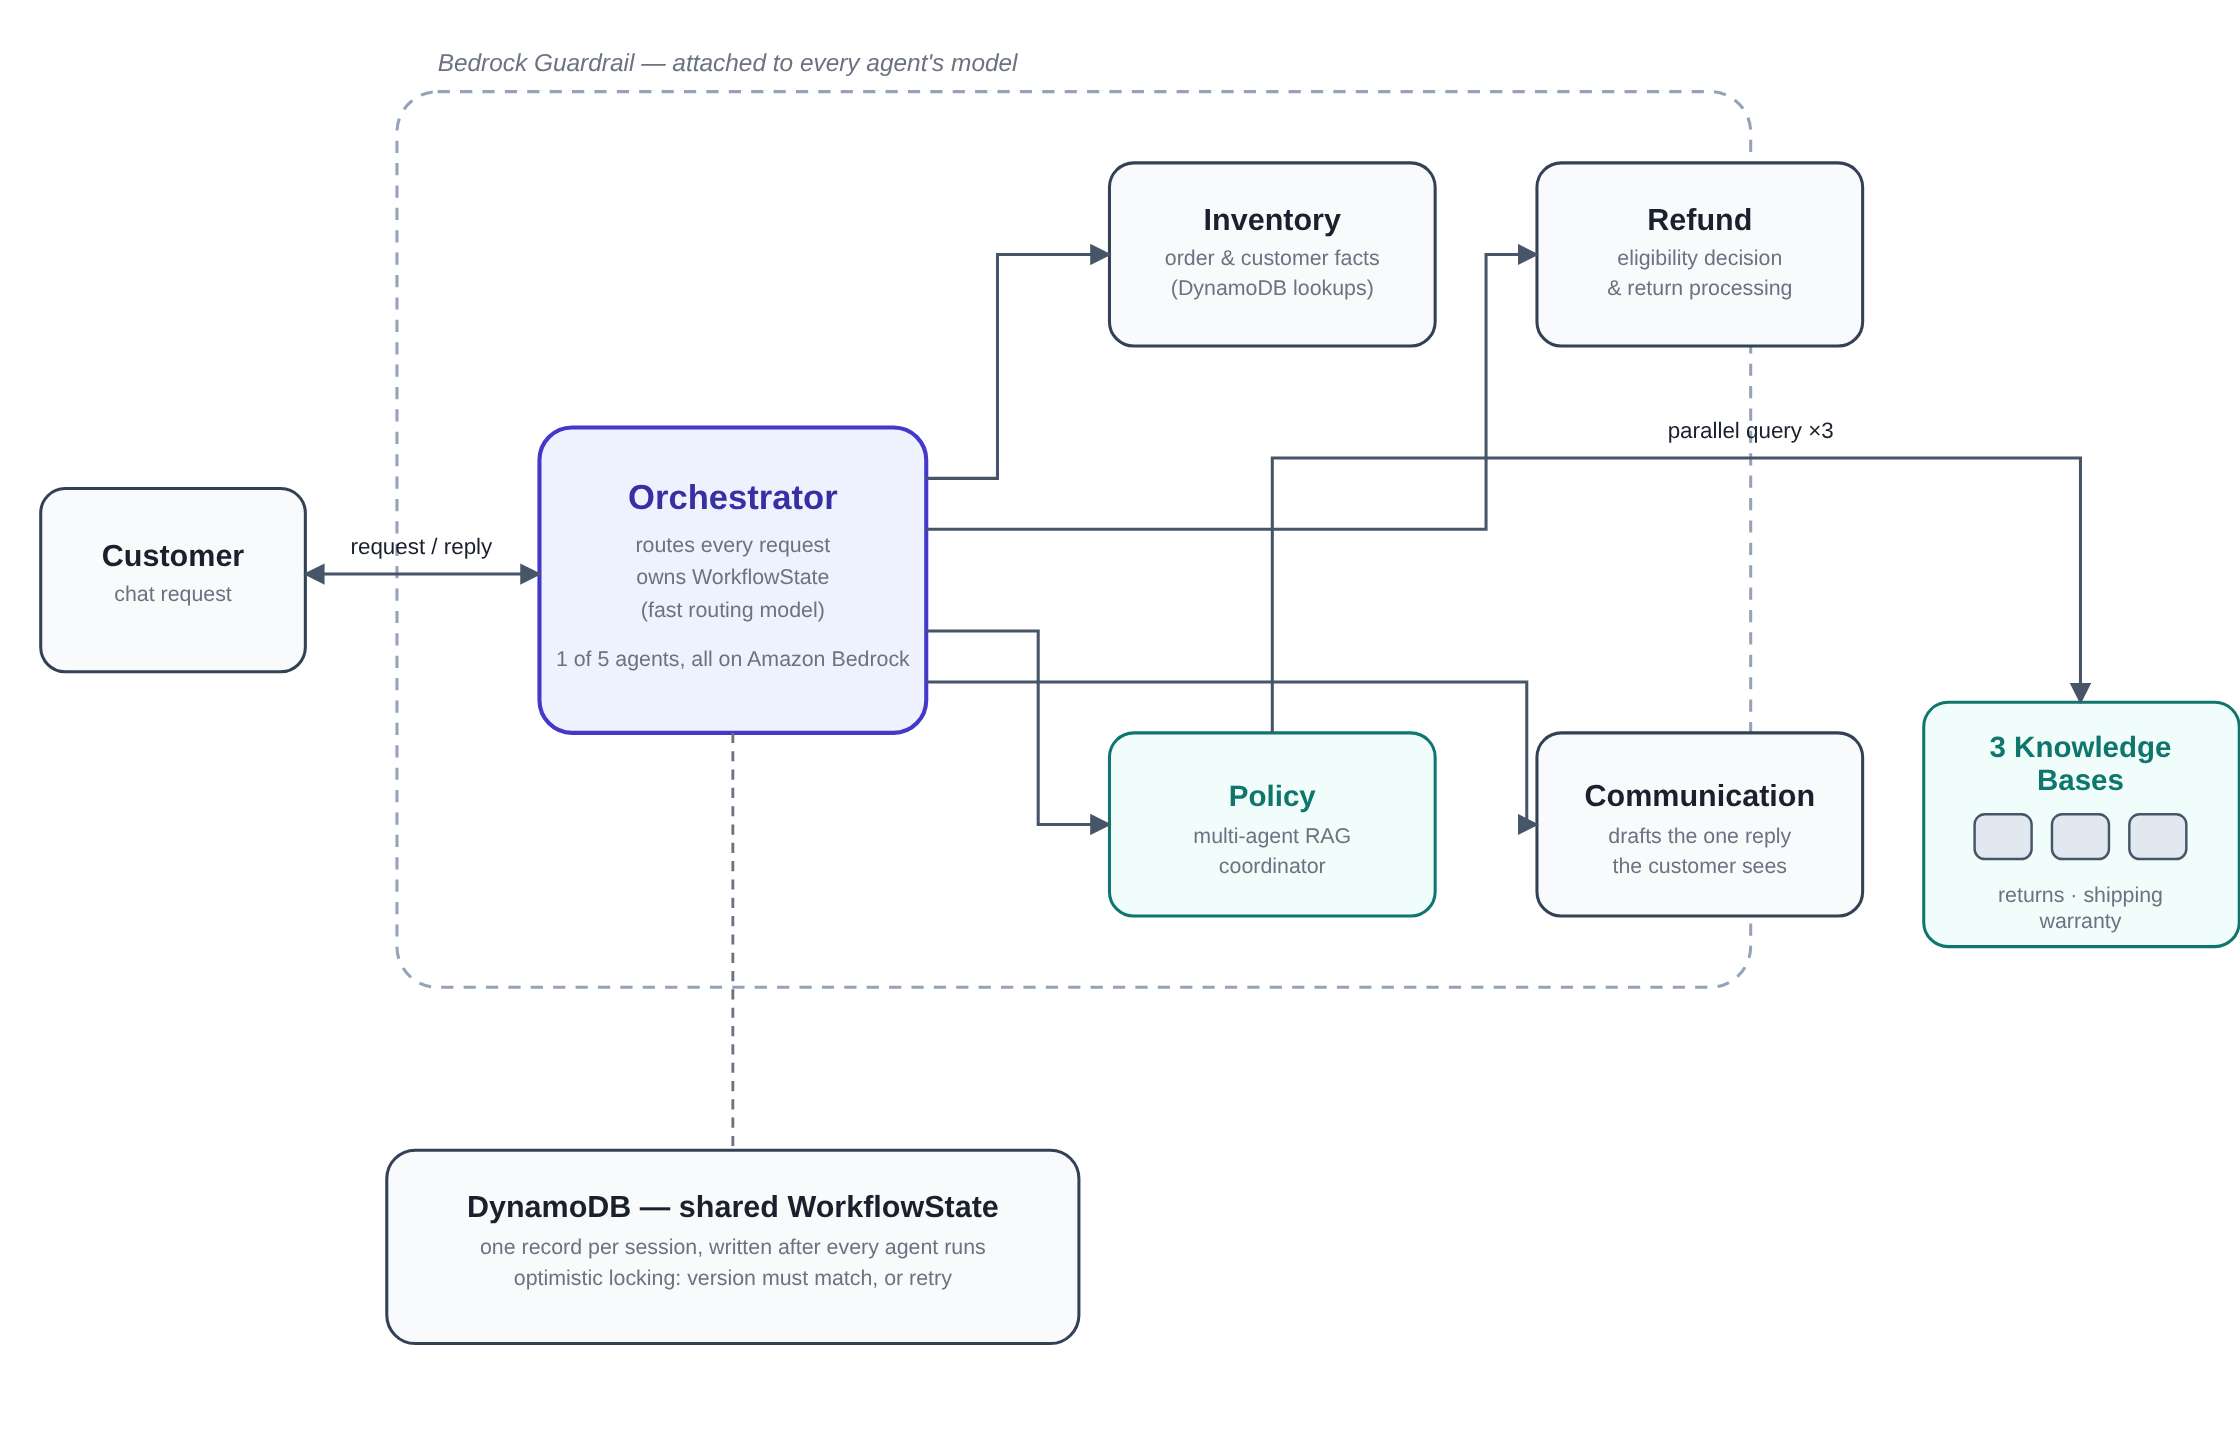
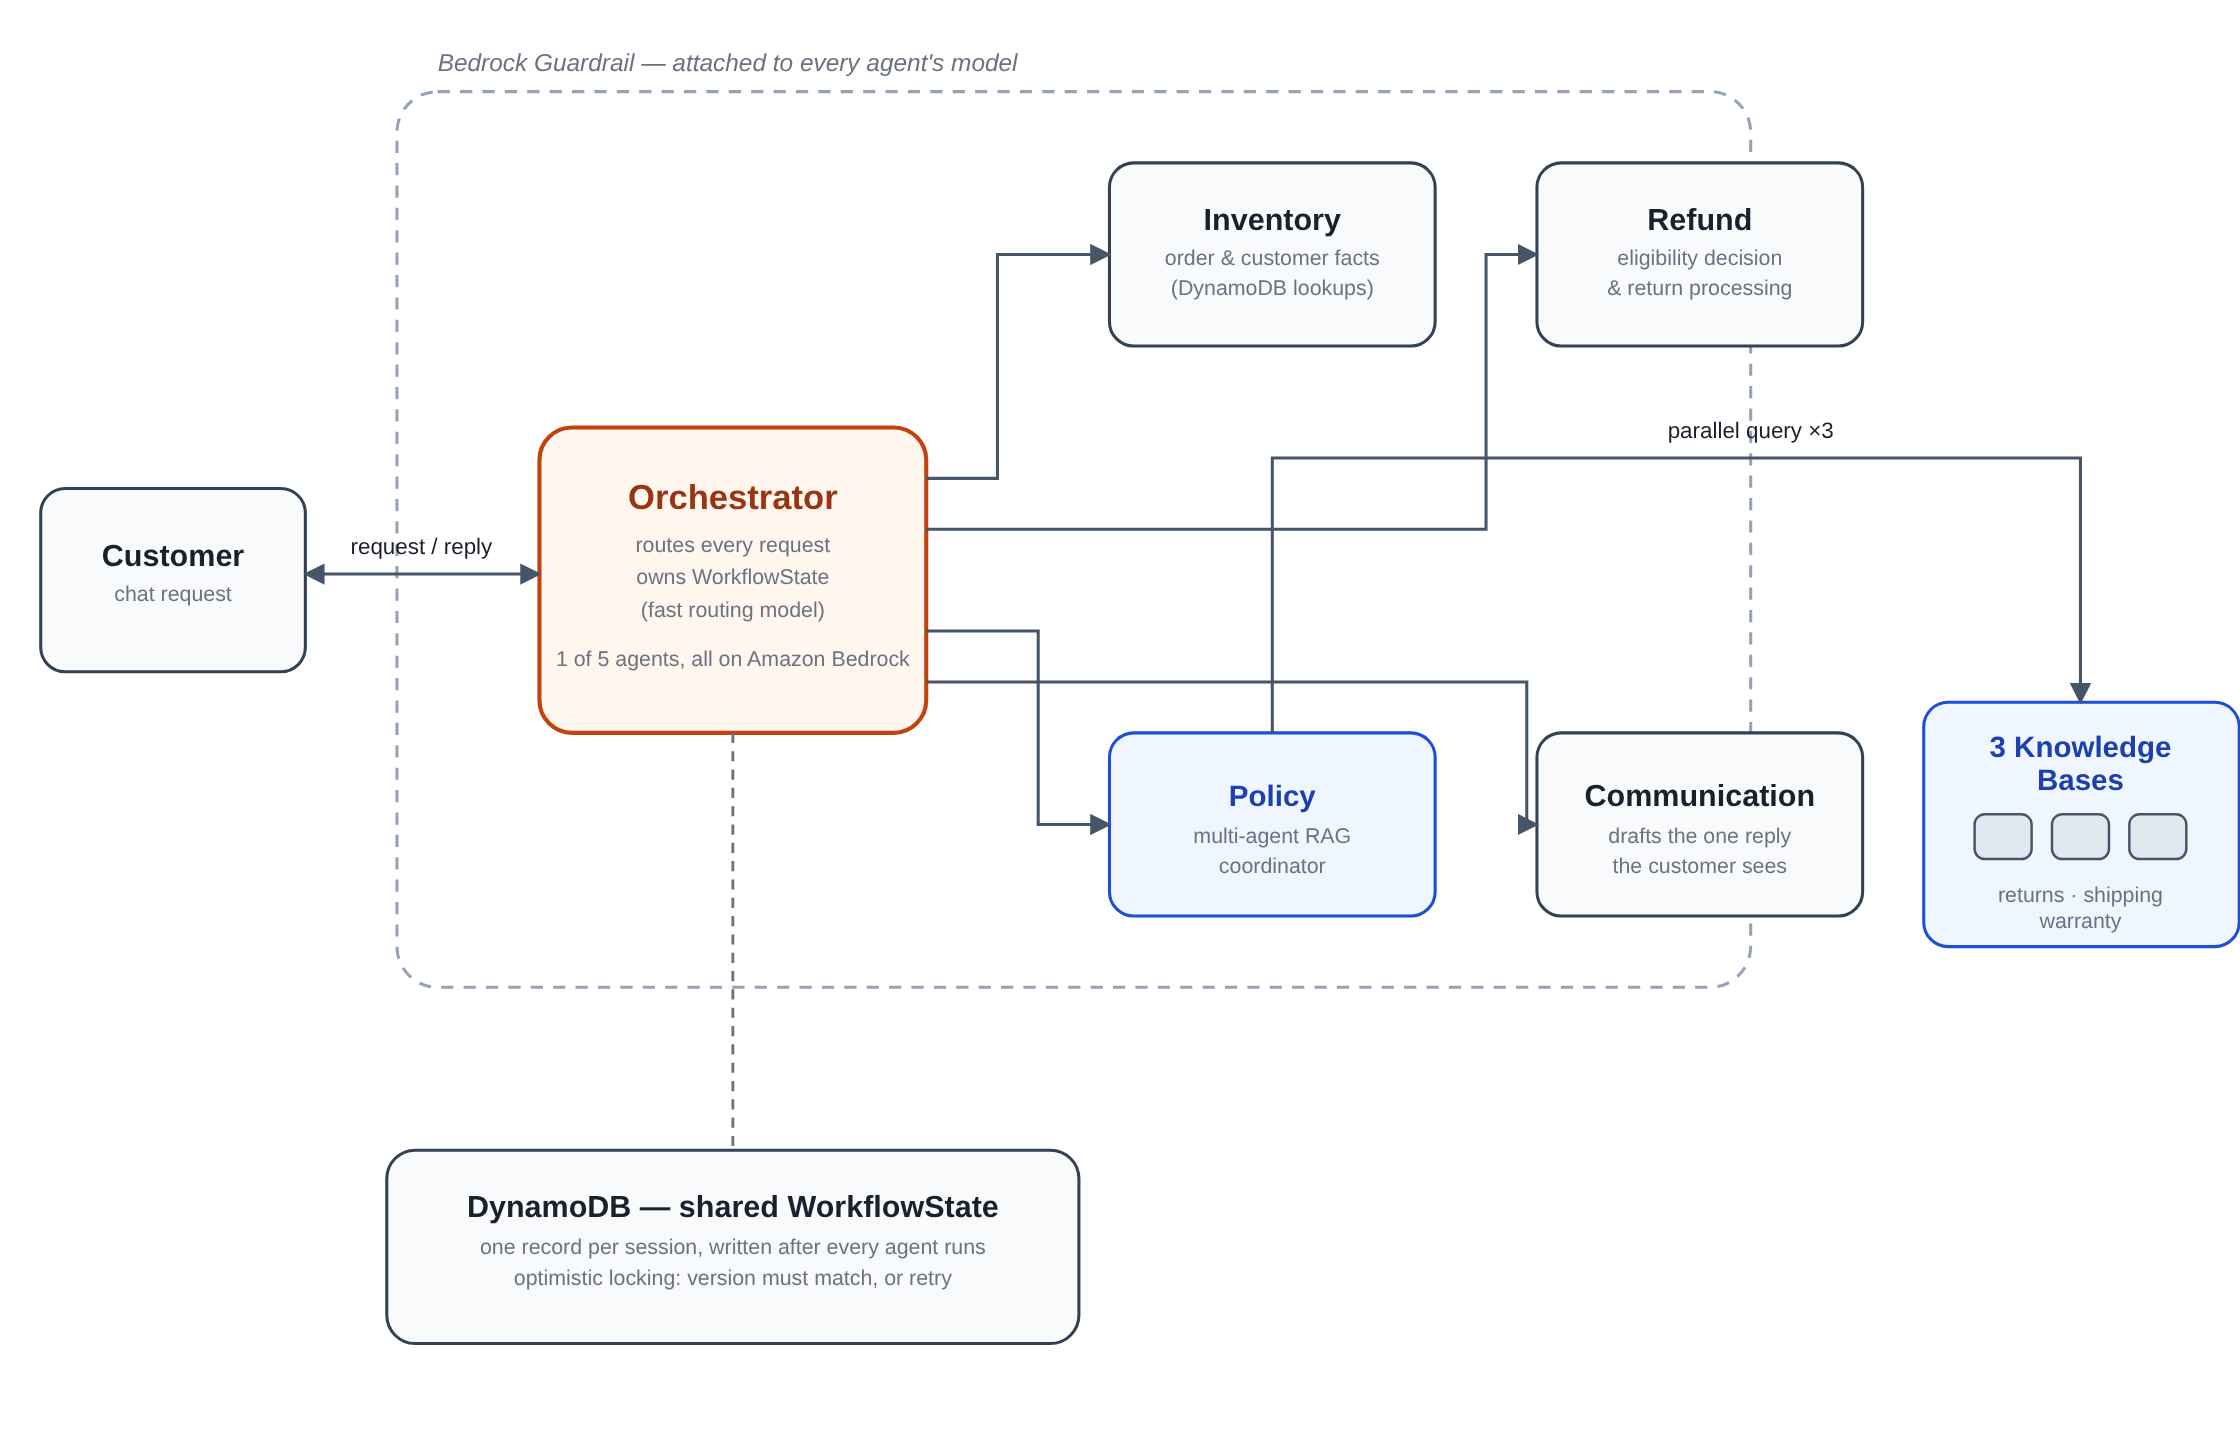
Differentiate this repo's presentation from the other AgentCore repo
README: dropped the shared emoji-badge-table template, reordered
sections, moved the orchestrator-file provenance note up, replaced
the skills table with inline prose, plain footer. Same content, own
voice, so the two AgentCore repos don't read as one template reused
twice.

Overview diagram: recolored off the zero-trust-kubernetes-cluster
repo's exact palette (indigo/teal) onto amber/blue - the two repos
were sharing literal hex values, which is a harder coincidence to
explain than similar prose.

diff --git a/README.md b/README.md
@@ -1,47 +1,44 @@
-<div align="center">
+# NovaMart Multi-Agent Support
 
-# 🛒 NovaMart Multi-Agent Support
-
-**A five-agent, production-shaped e-commerce support system on Amazon Bedrock AgentCore** — an
-Orchestrator routes customer requests to four specialist workers, one of which runs its own
-internal multi-agent RAG fan-out across three Bedrock Knowledge Bases in parallel. Every agent
-shares one optimistic-locked DynamoDB record, runs behind a Bedrock Guardrail, and is traced
-end-to-end on the X-Ray Service Map.
+A five-agent e-commerce support system on Amazon Bedrock AgentCore, built for a fictional
+company called NovaMart. One Orchestrator routes each customer request to four specialist
+workers — Inventory, Refund, Policy, Communication — and the Policy worker is itself a small
+multi-agent system, fanning a single question out to three Bedrock Knowledge Bases in
+parallel. Every agent coordinates through one optimistic-locked DynamoDB record, runs behind
+a shared Bedrock Guardrail, and the whole request graph is traceable end-to-end on the X-Ray
+Service Map.
 
 [![CI](https://github.com/mahmoudnasser1561/agentcore-multi-agent-ecommerce-rag/actions/workflows/ci.yml/badge.svg)](https://github.com/mahmoudnasser1561/agentcore-multi-agent-ecommerce-rag/actions/workflows/ci.yml)
-![Python](https://img.shields.io/badge/python-3.12-3776AB?logo=python&logoColor=white)
-![AWS](https://img.shields.io/badge/AWS-Bedrock%20AgentCore-FF9900?logo=amazonaws&logoColor=white)
-![Score](https://img.shields.io/badge/graded%20score-120%2F120-2ea44f)
-![License](https://img.shields.io/badge/license-MIT-blue)
+![License](https://img.shields.io/badge/license-MIT-lightgrey)
 
-| 🧭 **5 agents** | 📚 **Multi-agent RAG** | 🔒 **Optimistic locking** | 🛡 **Guardrails** | 🧠 **Session memory** | 📊 **Full observability** |
-|:-:|:-:|:-:|:-:|:-:|:-:|
-| Orchestrator → 4 workers | 3 KBs in parallel | versioned WorkflowState | content/PII/topic policy | AgentCore Memory | CloudWatch + X-Ray |
+Python 3.12 · Amazon Bedrock AgentCore · DynamoDB · S3 Vectors · Strands Agents SDK
+Graded **120/120**, first submission.
 
-</div>
-
----
-
-## 🏗 Architecture at a glance
+## The system
 
 ![Architecture](docs/diagrams/architecture.png)
 
-The Orchestrator (Claude Haiku 4.5 — cheap, fast routing) never answers the customer itself. It
-calls exactly one worker (Claude Sonnet 4.5) per step and persists that worker's result to a
-shared DynamoDB row before deciding what happens next. The Policy worker is itself a small
-multi-agent system: three single-purpose retriever sub-agents, one per Knowledge Base, queried
-concurrently through a `ThreadPoolExecutor`.
+The Orchestrator runs a fast, cheap routing model and never answers the customer directly —
+it calls exactly one worker per step (a stronger reasoning model) and persists that worker's
+result to a shared DynamoDB row before deciding what happens next. The Policy worker holds
+three single-purpose retriever sub-agents, one per Knowledge Base, queried concurrently
+through a `ThreadPoolExecutor` rather than in sequence.
 
----
+A simpler, single-glance version of this diagram — built for sharing outside the repo — is at
+`docs/diagrams/overview-agentic-system.svg`.
 
-## 🎬 Proof it's deployed, not just written
+## It actually ran on AWS, not just in an editor
 
-These are screenshots from the actual grading run against real AWS infrastructure — three
-Bedrock Knowledge Bases backed by S3 Vectors, a live AgentCore Runtime, a published Guardrail,
-and CloudWatch/X-Ray wired up. **Score: 120/120.**
+The screenshots below come from the real grading run: three Bedrock Knowledge Bases backed by
+S3 Vectors, a live AgentCore Runtime, a published Guardrail, CloudWatch and X-Ray wired up.
 
 > *"Now that's what I call a fine job! … The version-aware WorkflowState lifecycle is a notable
 > foundation for reliable multi-agent coordination."* — reviewer feedback, first attempt
+
+Checked off against live infrastructure: 5-agent Orchestrator → Workers routing · parallel
+multi-agent RAG across 3 Knowledge Bases · optimistic-locked WorkflowState · the Guardrail
+(content, PII, topics, word list) · AgentCore Memory · CloudWatch logs + the X-Ray Service Map
+below. **120 / 120.**
 
 <table>
 <tr>
@@ -74,20 +71,27 @@ and CloudWatch/X-Ray wired up. **Score: 120/120.**
 </tr>
 </table>
 
-<div align="center">
 <img src="docs/evidence/xray-service-map-detail.png" alt="X-Ray service map, detail view" width="75%" />
-<br/><sub>Orchestrator → 5 agent nodes → 3 knowledge base nodes, one trace per customer request</sub>
-</div>
 
----
+*Orchestrator → 5 agent nodes → 3 knowledge base nodes, one trace per customer request.*
 
-## 🔄 How one request flows
+## Why `src/agent_orchestrator.py` looks unusual for a portfolio repo
+
+It's **exactly** the file that was submitted and graded — not a rewrite, not a cleaned-up
+simplification. The four modules it imports (`config.py`, `agent_utils.py`,
+`agent_observability.py`, `bedrock_kb_retrieval.py`) are original, from-scratch replacements
+for the course-provided versions of the same name, written to match the same public interface
+so the graded file runs unmodified. The course's own scaffolding, starter README and sample
+data are licensed CC BY-NC-ND and are not included anywhere in this repository — only the
+parts that are the student's own authorship, or an original reimplementation.
+
+## Request lifecycle
 
 ![Request flow](docs/diagrams/request-flow.png)
 
-Every routing tool follows the same pattern: read WorkflowState's current `version`, run the
-worker, write the result back under that version. The write is a **conditional** DynamoDB
-update — it only succeeds if `version` still matches what was just read.
+Every routing tool shares one pattern: read WorkflowState's current `version`, run the worker,
+write the result back conditioned on that version. The write only succeeds if `version` still
+matches what was just read.
 
 ```mermaid
 stateDiagram-v2
@@ -101,55 +105,35 @@ stateDiagram-v2
     conflict --> v1 : re-read current version, retry (max 3x)
 ```
 
-A lost race doesn't corrupt state or silently drop a result — it retries against a fresh read,
+A lost race doesn't corrupt state or drop a result silently — it retries against a fresh read,
 up to three times, then raises rather than looping forever.
 
----
-
-## 📚 Multi-agent RAG — three knowledge bases, one round trip
+## Multi-agent RAG: three knowledge bases, one round trip
 
 ![Parallel RAG](docs/diagrams/parallel-rag.png)
 
-The PolicyAgent's `search_all_policies` tool doesn't query three knowledge bases in sequence —
-it fans the question out to three retriever sub-agents concurrently via `ThreadPoolExecutor`,
-so a question touching all three domains (returns, shipping, warranty) costs one round trip's
-wall-clock time, not three. A single retriever failing — a transient KB error — is reported
-inline in its slot; it never aborts the other two.
+`search_all_policies` doesn't query three knowledge bases in sequence — it fans the question
+out to three retriever sub-agents concurrently, so a question touching all three domains
+(returns, shipping, warranty) costs one round trip's wall-clock time, not three. A single
+retriever failing — a transient KB error — is reported inline in its own slot and never
+aborts the other two.
 
----
+## Tuning the guardrail against a real false positive
 
-## 🛡 Guardrails — safety without blocking legitimate math
-
-A Bedrock Guardrail is attached to **every** agent's model via one call
+A Bedrock Guardrail attaches to every agent's model through one call
 (`model.update_config(guardrail_id=..., guardrail_version=...)`), so a single policy change
-takes effect across the whole graph at once. Three STANDARD-tier DENY topics: competitor
-products, pricing negotiations, legal threats — plus content filters, PII redaction, and a
-profanity word list.
+takes effect across the whole graph at once. It carries three STANDARD-tier DENY topics —
+competitor products, pricing negotiations, legal threats — plus content filters, PII
+redaction, and a profanity word list.
 
-The "pricing negotiations" topic is deliberately **narrow**: it blocks a customer trying to
-haggle NovaMart down from an advertised price, but explicitly *excludes* arithmetic using a
-price and discount the customer already stated. An early CLASSIC-tier version of this topic
-was broad enough to block *"what's 15% off $120?"* — a real failure caught during verification,
-not a hypothetical — which is why the final guardrail uses STANDARD tier with narrowly-scoped
-topic definitions instead.
+The "pricing negotiations" topic is deliberately narrow: it blocks a customer haggling
+NovaMart down from an advertised price, but explicitly excludes arithmetic using a price and
+discount the customer already stated. An earlier, CLASSIC-tier version of this topic was wide
+enough to block *"what's 15% off $120?"* outright — caught during live verification, not a
+hypothetical — which is why the shipped guardrail uses STANDARD tier with narrowly-scoped
+topic text instead.
 
----
-
-## ✅ What was verified where
-
-| Capability | Live deployment (the grading run) |
-|---|:-:|
-| 5-agent Orchestrator → Workers routing | ✅ |
-| Parallel multi-agent RAG (3 Knowledge Bases, S3 Vectors) | ✅ |
-| Optimistic-locked WorkflowState | ✅ |
-| Bedrock Guardrail (content, PII, topics, word list) | ✅ |
-| AgentCore Memory (session summaries) | ✅ |
-| CloudWatch logs + X-Ray Service Map | ✅ |
-| **Graded score** | **120 / 120** |
-
----
-
-## 📂 What's in this repository
+## Repository layout
 
 ```text
 .
@@ -160,32 +144,25 @@ topic definitions instead.
 │   ├── agent_observability.py   # original — CloudWatch logging + X-Ray tracing
 │   └── bedrock_kb_retrieval.py  # original — Knowledge Base Retrieve wrapper
 ├── docs/
-│   ├── diagrams/                # PNG exports of the diagrams above
+│   ├── diagrams/                # the diagrams above, plus a simpler standalone overview
 │   └── evidence/                # screenshots from the real deployment
 ├── .env.example
 └── .github/workflows/ci.yml     # lint + import/wiring check on every push
 ```
 
-`src/agent_orchestrator.py` is **exactly** the file that was submitted and graded — not a
-rewrite, not a simplification. The four modules it imports were written as original, minimal
-replacements for the course-provided versions of the same name, which are licensed
-CC BY-NC-ND and can't be redistributed; this repo never includes any of the original course
-scaffolding, starter README, or sample data. Everything under `src/` here is either the
-student's own work or an original reimplementation of the same public interface.
+## Running it
 
----
-
-## 🚀 Run it
+Offline — no AWS account needed, this is what CI runs on every push:
 
 ```bash
 uv sync
-uv run ruff check .                                           # lint
+uv run ruff check .
 AWS_ACCESS_KEY_ID=testing AWS_SECRET_ACCESS_KEY=testing \
   uv run python -c "import sys; sys.path.insert(0, 'src'); \
-  import agent_orchestrator; agent_orchestrator.build_agent_graph()"   # builds offline, no AWS needed
+  import agent_orchestrator; agent_orchestrator.build_agent_graph()"
 ```
 
-Running it against real data needs your own AWS account: three DynamoDB tables, three Bedrock
+Against real data, you'll need your own AWS account: three DynamoDB tables, three Bedrock
 Knowledge Bases backed by S3 Vectors, an AgentCore execution role, and a deployed AgentCore
 Runtime. `.env.example` lists every value `config.py` expects.
 
@@ -197,21 +174,4 @@ python src/agent_orchestrator.py deploy   # guardrail, runtime, memory, observab
 
 ---
 
-## 🧰 Skills demonstrated
-
-| Area | Where to look |
-|---|---|
-| Multi-agent orchestration (Orchestrator → Workers) | `build_orchestrator_agent`, `build_agent_graph` |
-| Multi-agent RAG, concurrent retrieval | `build_policy_agent` (`search_all_policies`) |
-| Distributed state with optimistic locking | `_create_workflow_state`, `_update_workflow_state` |
-| Enterprise guardrails, verified against live traffic | `create_guardrail` |
-| AgentCore Runtime deployment, Memory, observability | `deploy_to_agentcore_runtime`, `configure_memory`, `configure_observability` |
-| Production tracing (CloudWatch + X-Ray) | `src/agent_observability.py` |
-
----
-
-<div align="center">
-
-Built by **Mahmoud** ([@mahmoudnasser1561](https://github.com/mahmoudnasser1561)) · MIT licensed
-
-</div>
+Mahmoud — [github.com/mahmoudnasser1561](https://github.com/mahmoudnasser1561). Licensed MIT, see [`LICENSE`](LICENSE).
